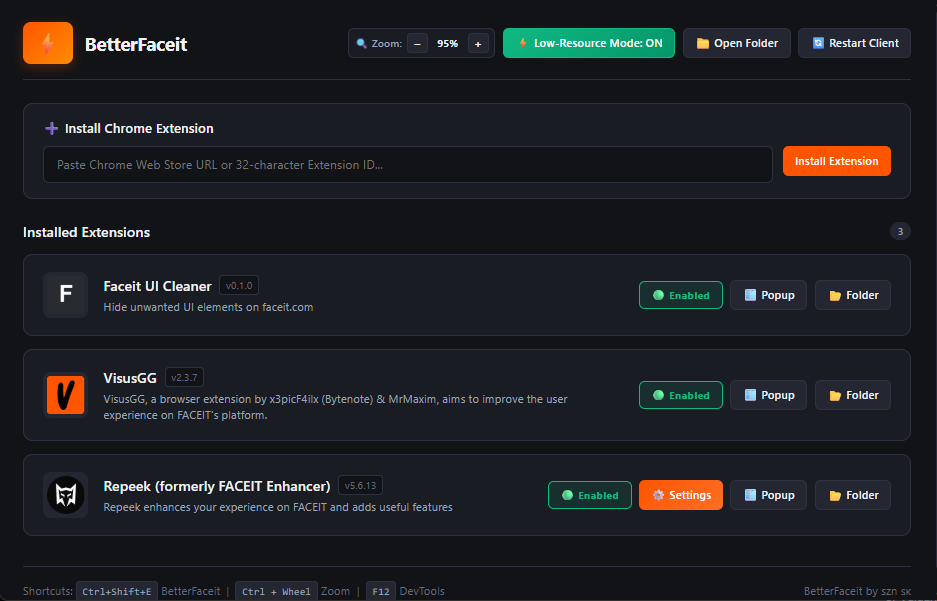
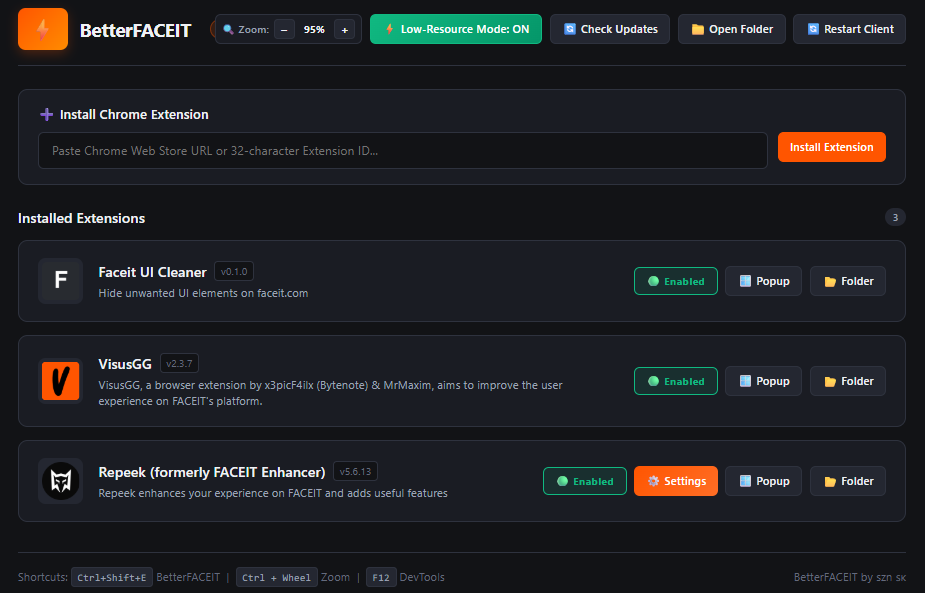
ui preview

diff --git a/README.md b/README.md
@@ -7,7 +7,7 @@
 > **The Ultimate Performance Optimizer & Chrome Extension Suite for the FACEIT Desktop Client.**  
 
 <p align="center">
-  <img src="assets/preview.png" alt="BetterFACEIT UI" width="850">
+  <img src="assets/ui.png" alt="BetterFACEIT UI" width="850">
 </p>
 
 ---
